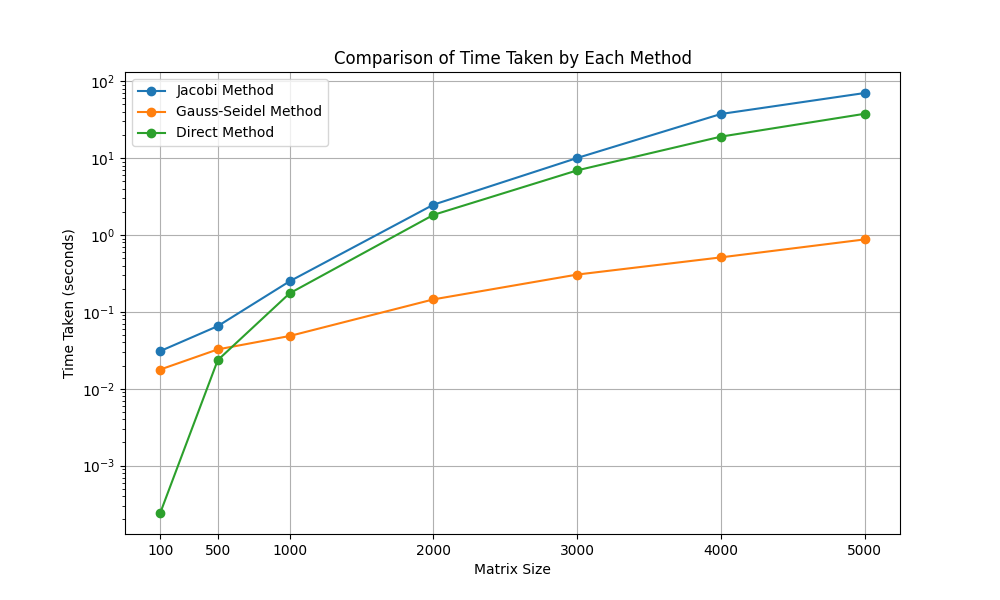
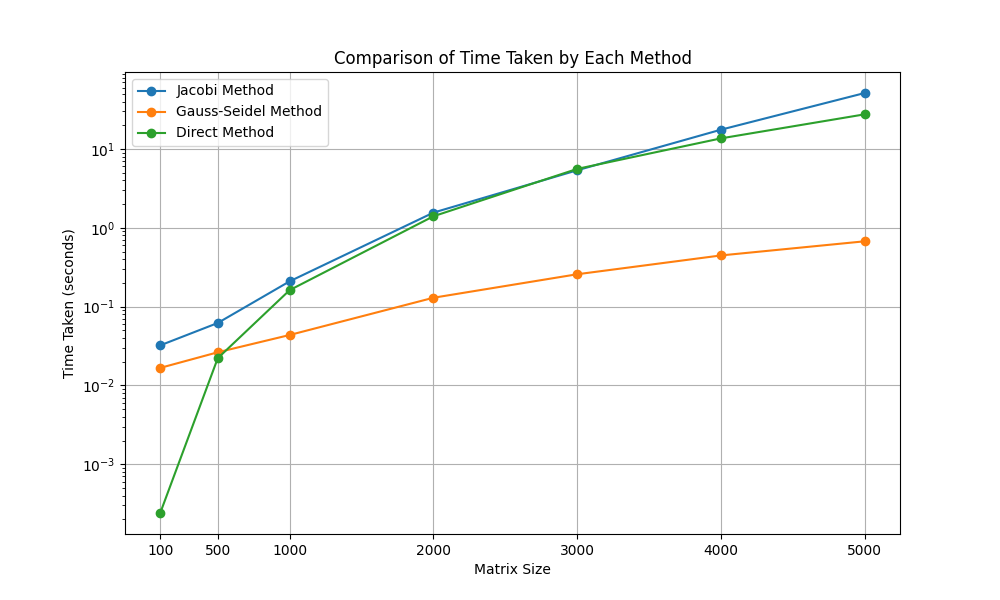
other results

diff --git a/tex/tex.tex b/tex/tex.tex
@@ -6,12 +6,12 @@
 Matrix $A$:
 \[
 A_{948 \times 948} = \begin{bmatrix}
-    7 & -1 & -1 & 0 & 0 & 0 & 0 & \cdots & 0 \\
-    -1 & 7 & -1 & -1 & 0 & 0 & 0 & \cdots & 0 \\
-    -1 & -1 & 7 & -1 & -1 & 0 & 0 & \cdots & 0 \\
-    0 & -1 & -1 & 7 & -1 & -1 & 0 & \cdots & 0 \\
+    3 & -1 & -1 & 0 & 0 & 0 & 0 & \cdots & 0 \\
+    -1 & 3 & -1 & -1 & 0 & 0 & 0 & \cdots & 0 \\
+    -1 & -1 & 3 & -1 & -1 & 0 & 0 & \cdots & 0 \\
+    0 & -1 & -1 & 3 & -1 & -1 & 0 & \cdots & 0 \\
     \vdots & \vdots & \vdots & \vdots & \vdots & \vdots & \vdots & \vdots & \vdots \\
-    0 & 0 & \cdots & 0 & 0 & 0 & -1 & -1 & 7 \\
+    0 & 0 & \cdots & 0 & 0 & 0 & -1 & -1 & 3 \\
 
 \end{bmatrix}
 \]
